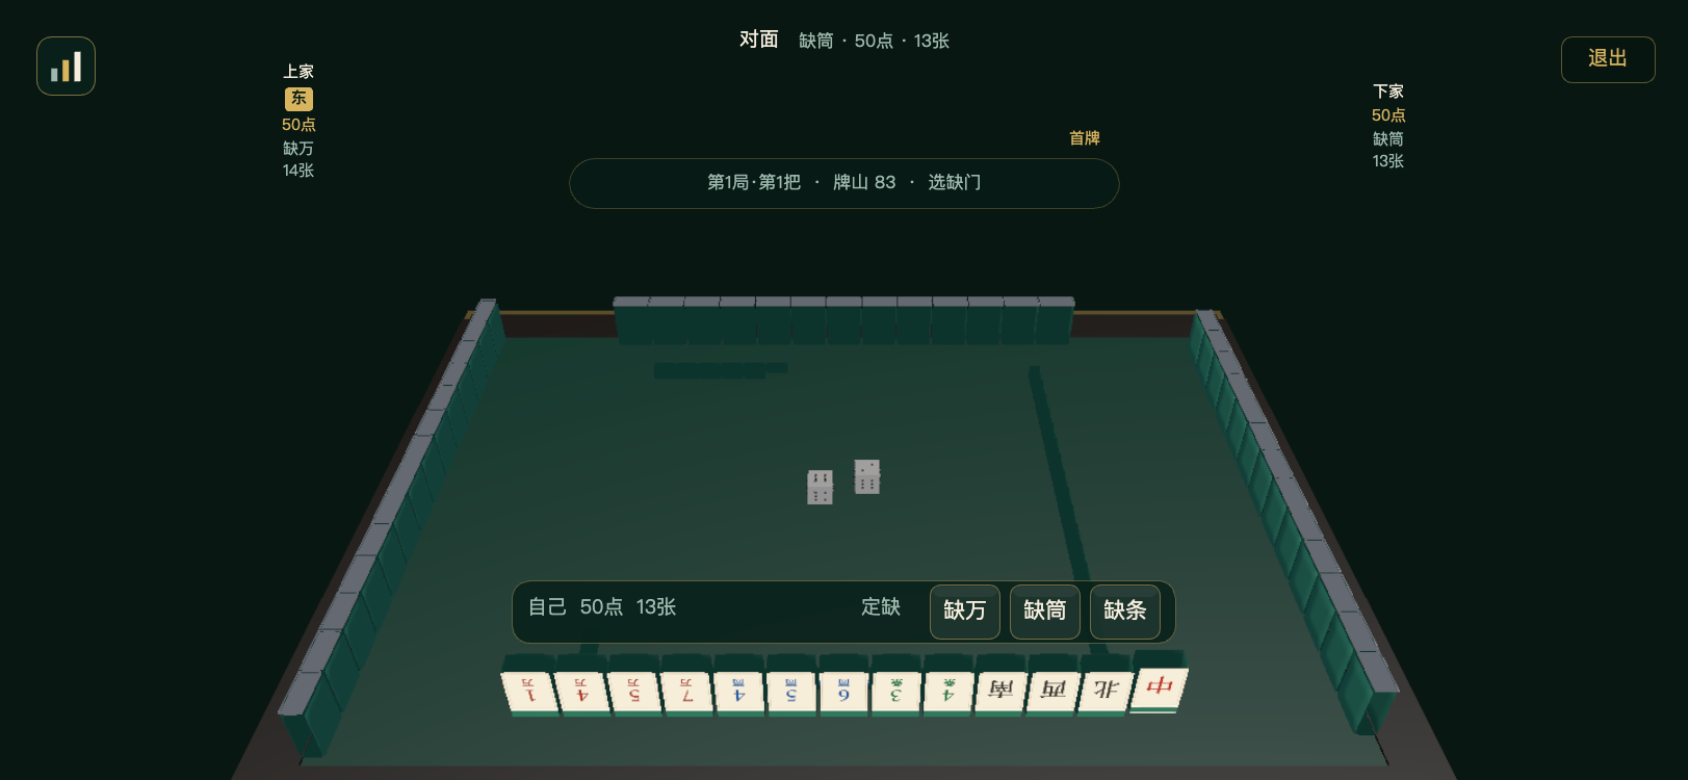
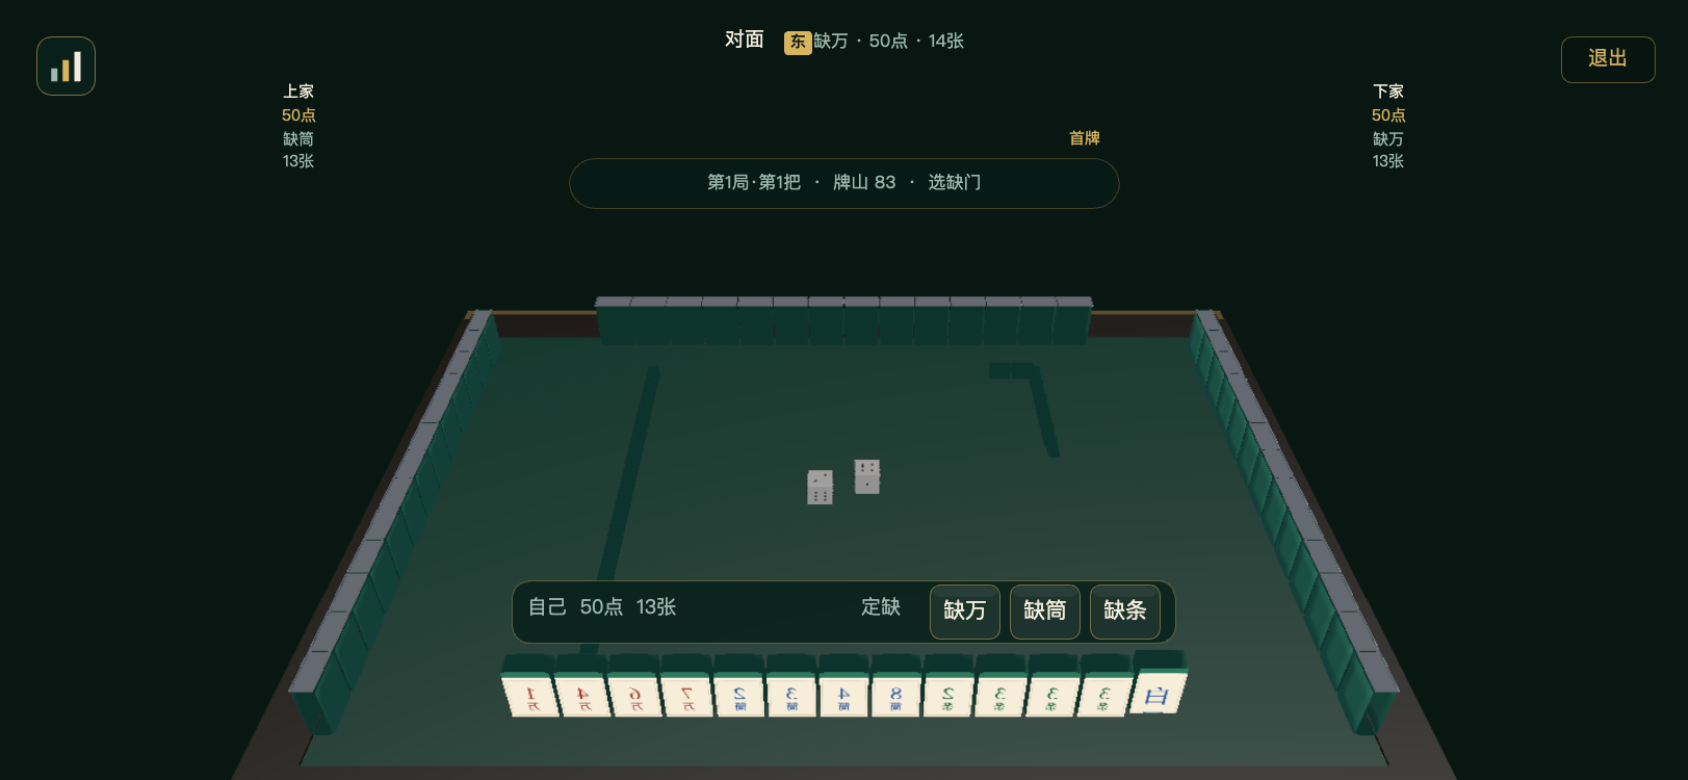
fix(layair): 修正 3D 牌面上下颠倒与弃牌重叠
圆角牌面 UV 改为上正下反，牌面数字/花色不再倒置；四家牌河重新分区，侧家牌河移到两列并加大牌距，避免弃牌、副露、手牌相互压住。

diff --git a/layair/src/ui/Table3D.ts b/layair/src/ui/Table3D.ts
@@ -194,7 +194,7 @@ export class Table3D {
             dy /= len
             dz /= len
           }
-          verts.push(cx + dx * r, cy + dy * r, cz + dz * r, dx, dy, dz, i / seg, j / seg)
+          verts.push(cx + dx * r, cy + dy * r, cz + dz * r, dx, dy, dz, i / seg, 1 - j / seg)
         }
       }
       for (let j = 0; j < seg; j += 1) {
@@ -455,16 +455,16 @@ export class Table3D {
         let z = 0
         if (seat === 0) {
           x = 260 - cursor * flatGap
-          z = 180
+          z = 240
         } else if (seat === 2) {
           x = -260 + cursor * flatGap
-          z = -300
+          z = -260
         } else if (seat === 3) {
-          x = -260
-          z = 160 - cursor * flatGap
+          x = -560
+          z = 250 - cursor * flatGap
         } else {
-          x = 260
-          z = -160 + cursor * flatGap
+          x = 560
+          z = 250 - cursor * flatGap
         }
         this.addFlatTile(tile, x, z, this.dynamicRoot)
         cursor += 1
@@ -476,27 +476,28 @@ export class Table3D {
   private addDiscards(seat: number, tiles: Tile[]) {
     if (!tiles.length) return
     const last = this.hand?.lastPlayed
-    const maxCols = 12
+    const step = 64
+    const maxCols = seat === 0 || seat === 2 ? 8 : 7
     for (let i = 0; i < tiles.length; i += 1) {
       const tile = tiles[i]
       const col = i % maxCols
-      const row = Math.floor(i / maxCols)
+      const line = Math.floor(i / maxCols)
       let x = 0
       let z = 0
       let rotation = 0
       if (seat === 0) {
-        x = -maxCols * (FLAT_W + 4) / 2 + col * (FLAT_W + 2)
-        z = 60 - row * (FLAT_D + 2)
+        x = -maxCols * step / 2 + col * step
+        z = 70 - line * step
       } else if (seat === 2) {
-        x = maxCols * (FLAT_W + 4) / 2 - col * (FLAT_W + 2)
-        z = -210 + row * (FLAT_D + 2)
+        x = maxCols * step / 2 - col * step
+        z = -180 + line * step
       } else if (seat === 3) {
-        x = -230
-        z = -200 + col * (FLAT_W + 2)
+        x = -430 - line * 90
+        z = -100 + col * 68
         rotation = 90
       } else {
-        x = 230
-        z = 200 - col * (FLAT_W + 2)
+        x = 430 + line * 90
+        z = 100 - col * 68
         rotation = -90
       }
       const node = this.addFlatTile(tile, x, z, this.dynamicRoot, rotation)
